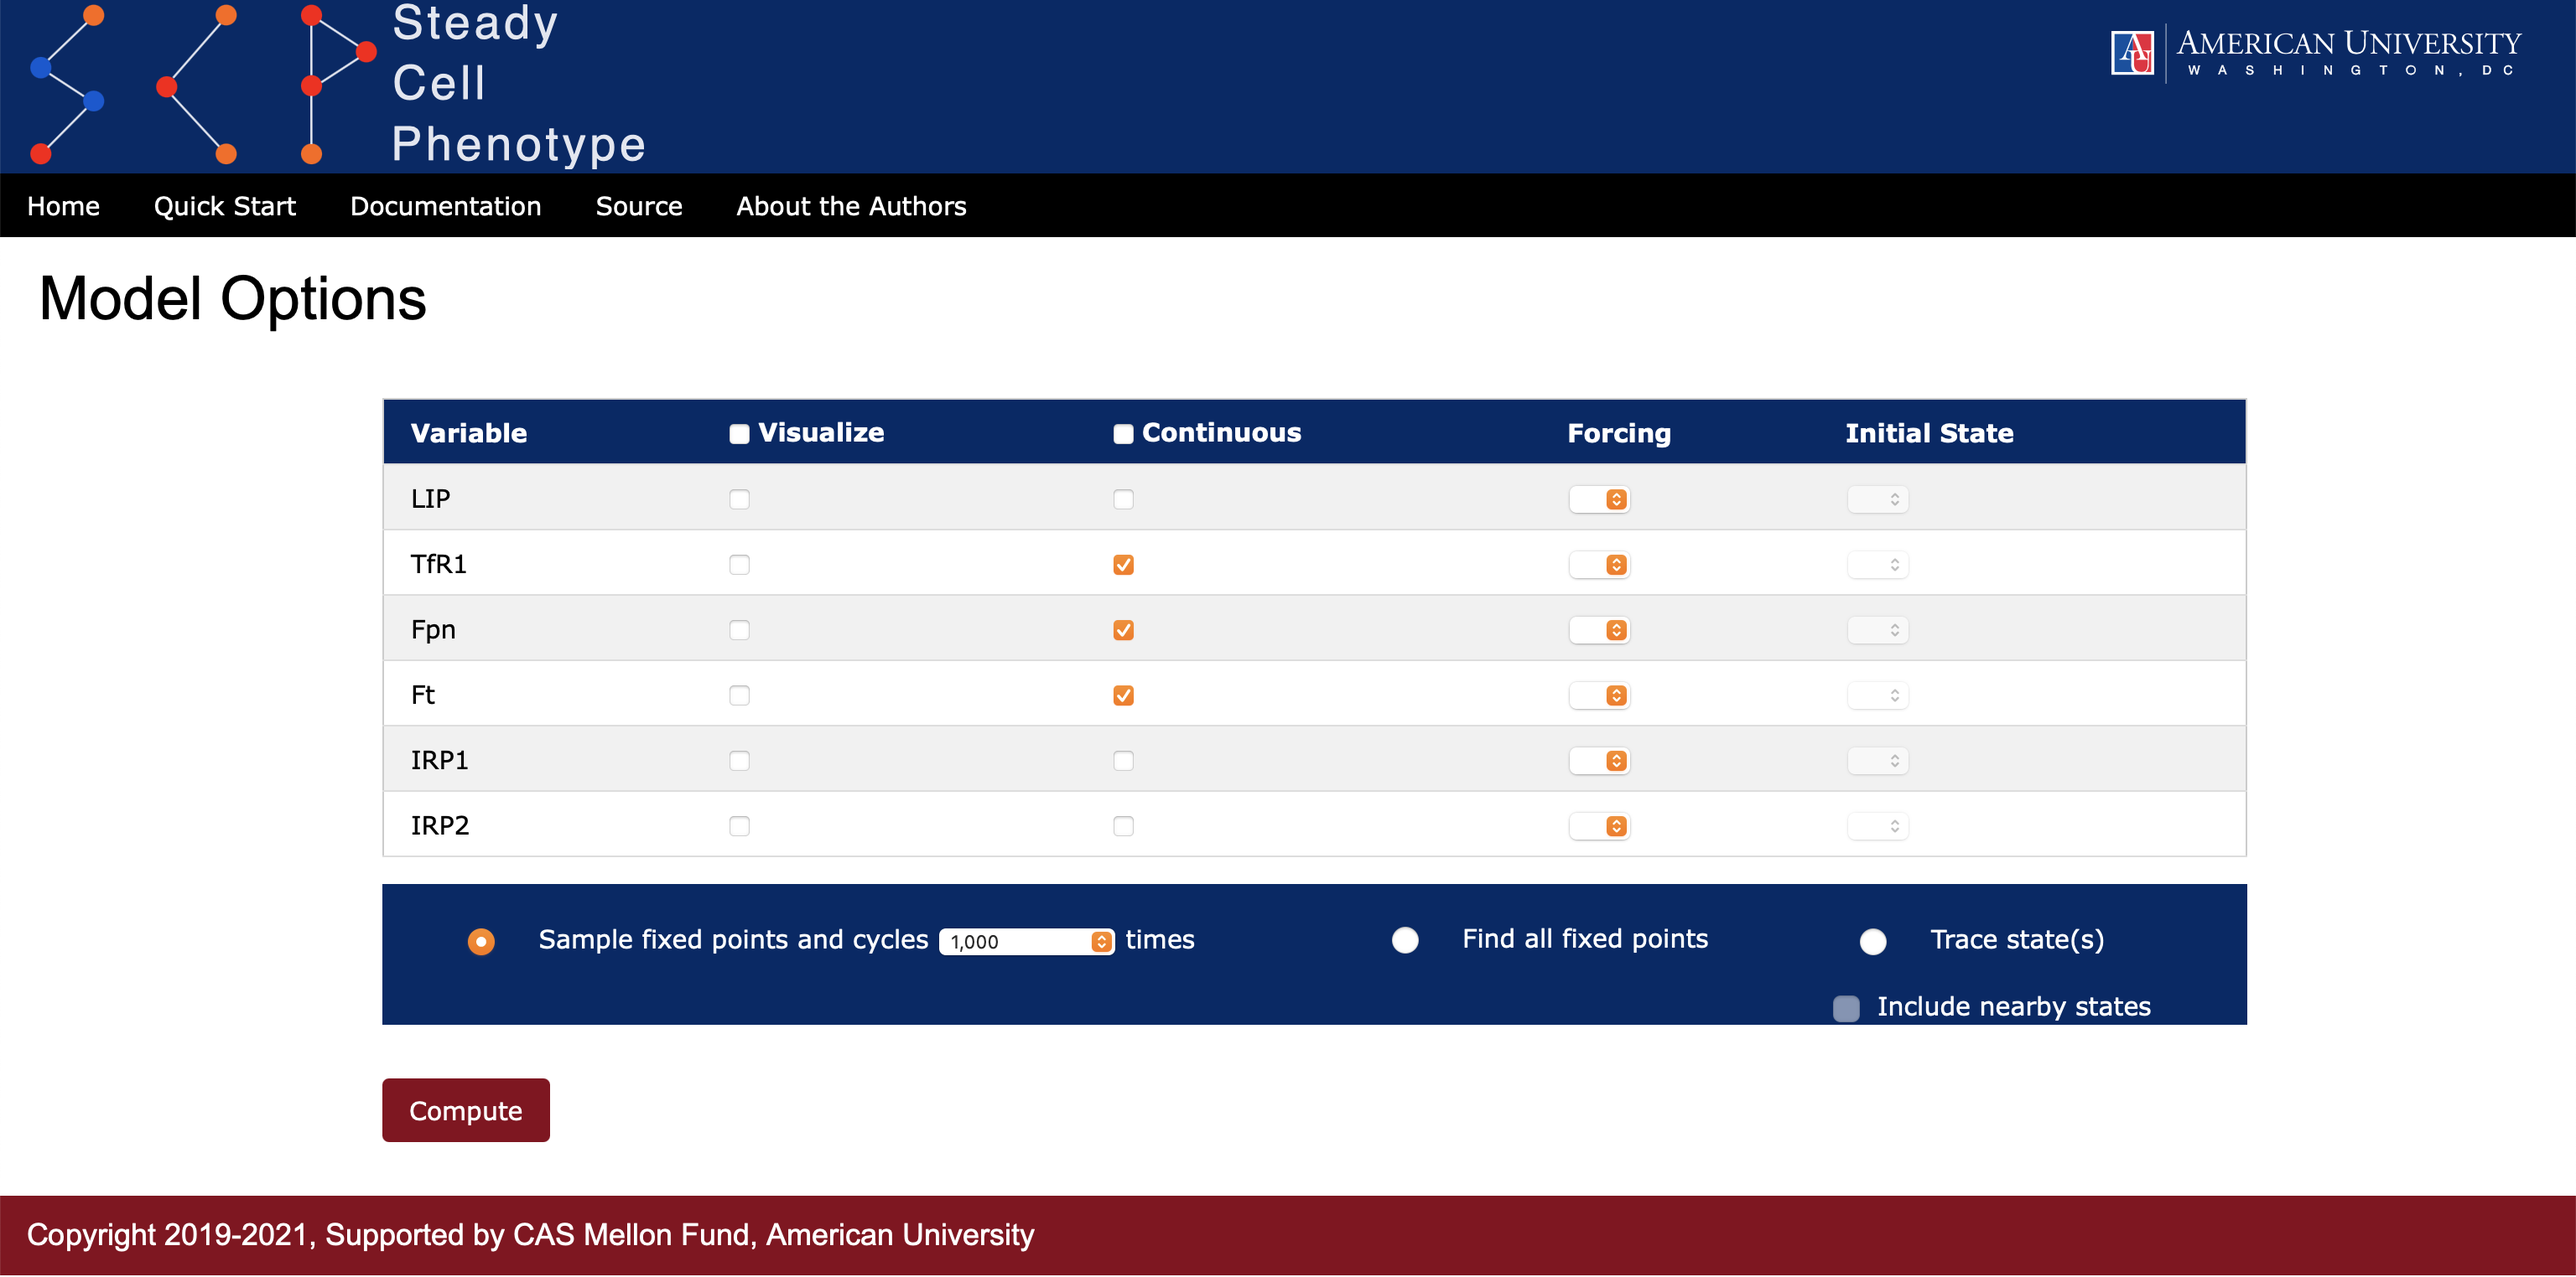
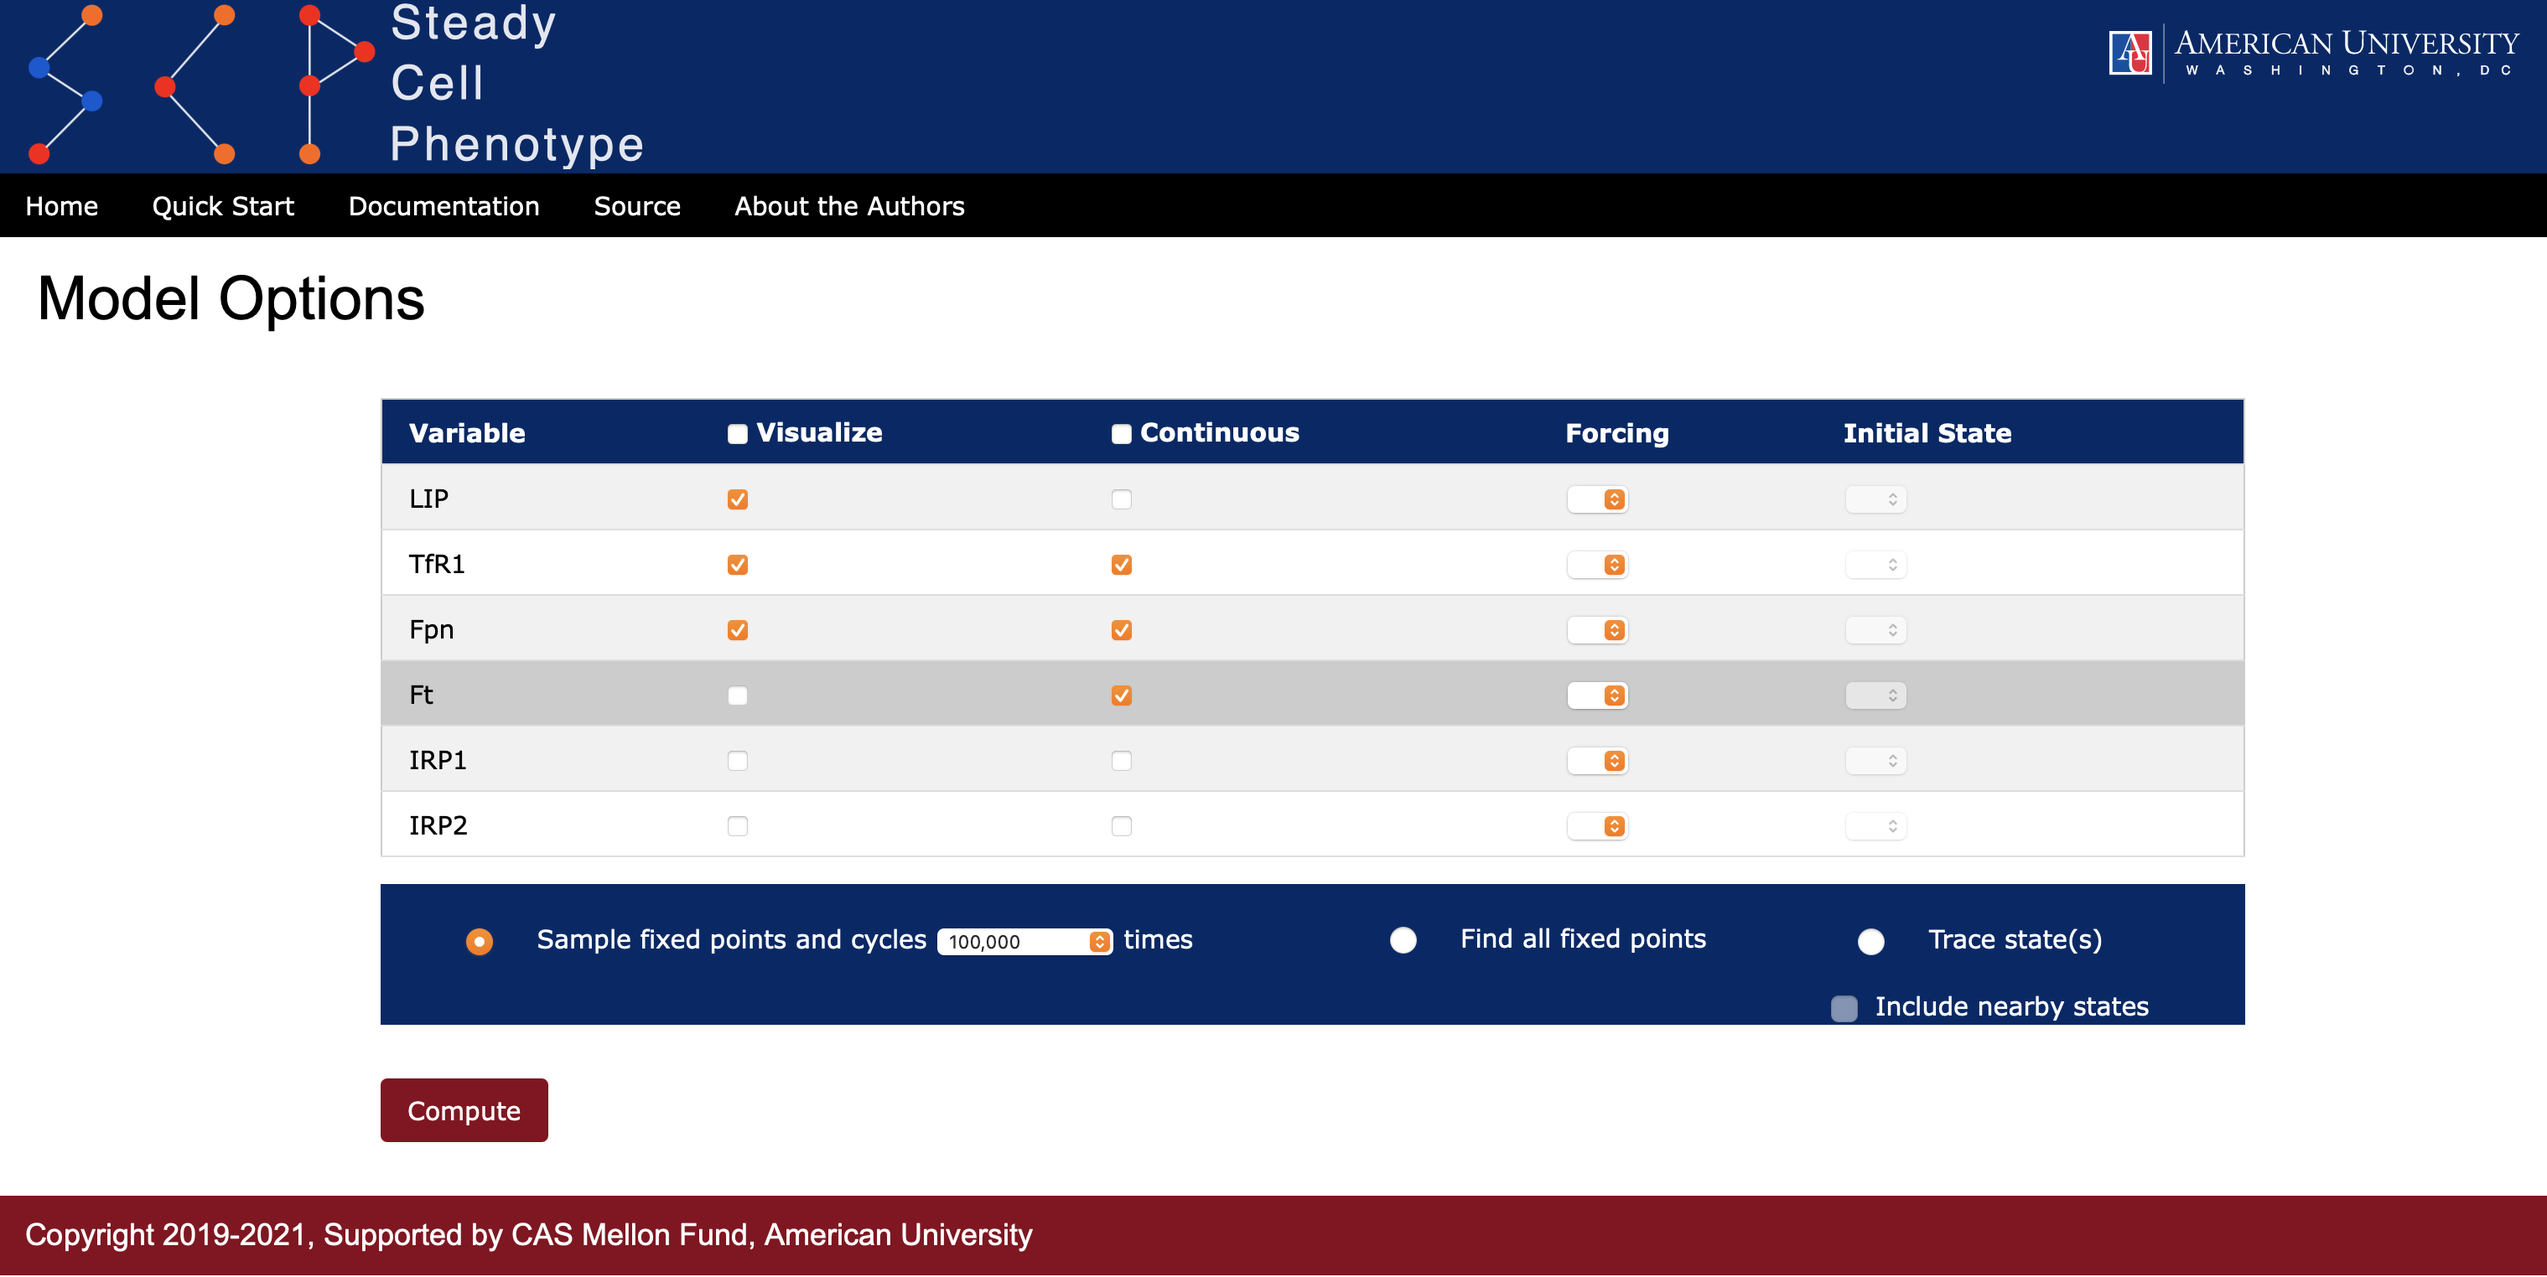
updates and images

diff --git a/index.html b/index.html
@@ -607,7 +607,7 @@
             <ul>
               <li> Selecting the radio-button <b>Find all fixed points</b> (see Figure 3).  In this
                 case <i>SteadyCellPhenotype</i> will compute all fixed points analytically using
-                <cite><a href="http://www2.macaulay2.com/Macaulay2/Downloads/">Macaulay2</a></cite>, which can be downloaded
+                <cite><a href="http://www2.macaulay2.com/Macaulay2/">Macaulay2</a></cite>, which can be downloaded
                 from here
                 <cite><a href="http://www2.macaulay2.com/Macaulay2/Downloads/">Downloads.</a></cite>
                 Note that option to find all fixed points will only work after the user installs
@@ -635,6 +635,54 @@
             samples from the dropdown list is larger than the state space (only possible for
             relatively small models), then a complete state space search will be performed.</i>
           </p>
+          
+          <p class="line_space">
+          When the radio-button <b>Sample fixed points and cycles</b> is selected a lengths of each
+          trajectory leading to an attractor for each random start is recorded. A histogram, summarizing
+          a distribution of the lengths of paths, is displayed below each attractor (see Figure 4).
+          Additionally, user can select <b>Visualize</b> option for all or some variables
+          (one can see this option in Figure 3). When this option is selected then <i>SteadyCellPhenotype</i>
+          will collect additional statistics. In particular, for each random starting state a trajectory (path)
+          is recorded. The collection of all these trajectories are then aligned <i>on the right</i>
+          to ensure that they all arrive at the same time at a fixed point or a specified point on their
+          cyclic attractor. The image in Figure 5 displays the mean value and standard deviation of the
+          variable states along these trajectories. This feature is useful in demonstrating, for example,
+          if biological species of interest (LIP) had a cyclic behavior before entering a fixed point.
+          
+          
+          <center>
+            <figure>
+              <img src="images/length_of_path.png" style="max-width: 90%;"/>
+              <figcaption>
+                <b>Figure 4 - Path length.</b> A cyclic attractor of length 6 for the model in Figure 1.
+                Since the size of the model is small, complete state space search was performed. Numbers
+                below the attractor (48.8% and Count 356) indicate how many states out of \(3^6 = 729\)
+                belong to the basin of this attractor.
+              </figcaption>
+            </figure>
+          </center>
+          
+          <center>
+            <figure>
+              <img src="images/phased_envelope.png" style="max-width: 90%;"/>
+              <figcaption>
+                <b>Figure 5 - Phased Envelope.</b> These images were generated using the entire model (24 nodes)
+                from <cite><a href="https://doi.org/10.1371/journal.pcbi.1005352">
+                    doi:10.1371/journal.pcbi.1005352
+                </a></cite>
+              </figcaption>
+            </figure>
+          </center>
+        
+          </p>
+        </section>
+        
+        <section>
+            <h3> Tracing a Specific State </h3>
+        </section>
+        
+        <section>
+            <h3> Knockout and Overexpression Experiments </h3>
         </section>
       </article>
       <!--- Documentation portion END --->
